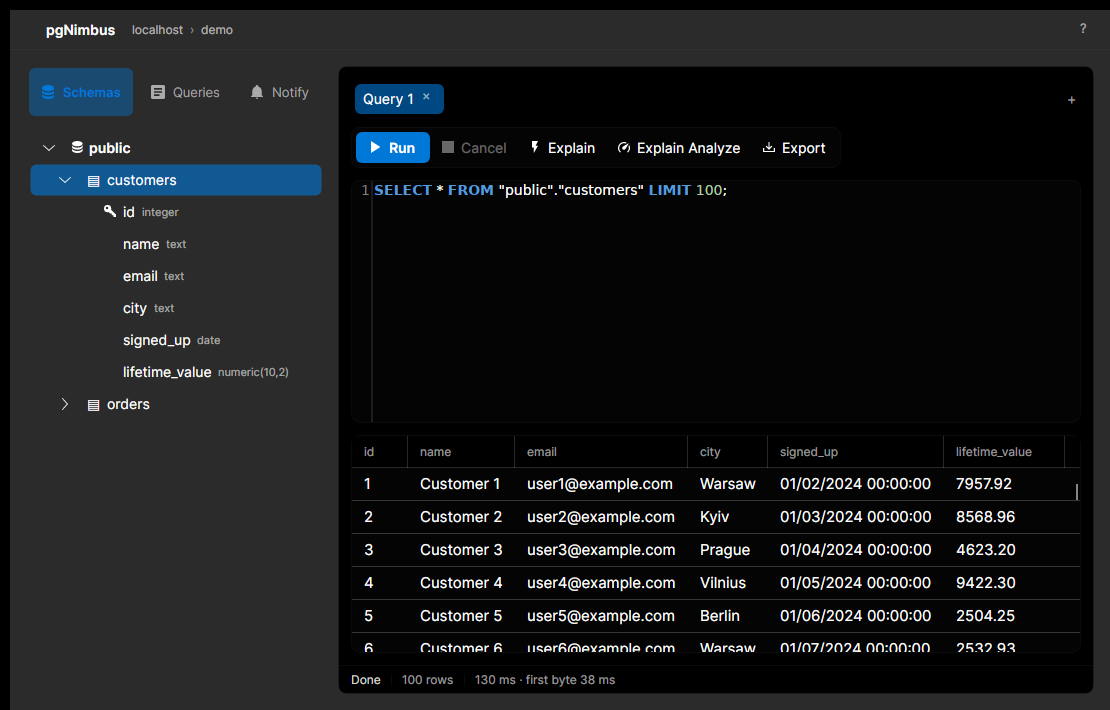
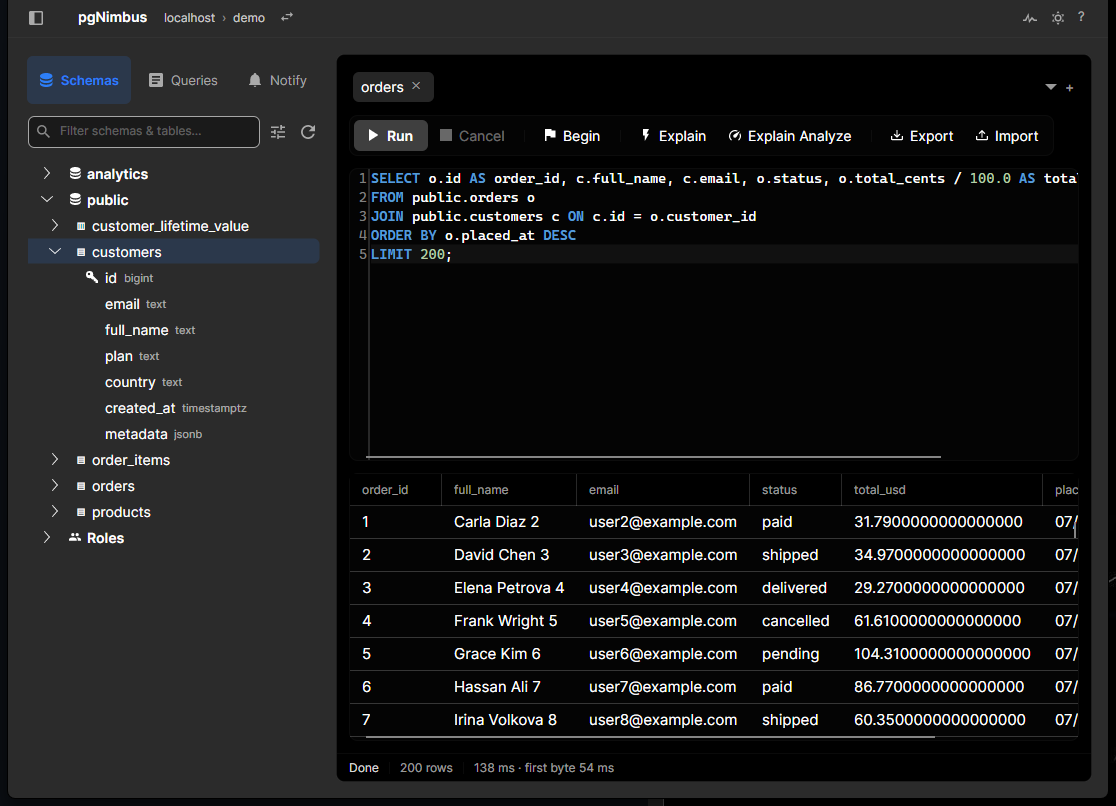
Refresh README screenshots with more of the sellable features (#73)
Re-captured the main window shots against a realistic seeded database
and added three new ones (EXPLAIN ANALYZE plan visualization, the
Ctrl+K command palette, and the server activity/pg_stat_activity
window) so the README screenshot gallery actually demonstrates the
PostgreSQL-first and keyboard-first differentiators, not just the
empty-state query editor.

Changed region(s): [[0.0, 0.0, 1.0, 1.0], [0.8883, 0.1549, 0.9495, 0.1859], [0.7964, 0.1549, 0.8577, 0.1859]]

diff --git a/README.md b/README.md
@@ -42,9 +42,17 @@ from the ground up.
 | --- | --- |
 | ![Main window, light theme](docs/screenshots/main-light.png) | ![Main window, dark theme](docs/screenshots/main-dark.png) |
 
-| Connection manager | Keyboard shortcuts (F1) |
+| EXPLAIN ANALYZE visualization | Command palette (Ctrl+K) |
 | --- | --- |
-| ![Connection dialog with saved profiles and paste-anything import](docs/screenshots/connection-dialog.png) | ![Keyboard shortcuts cheat sheet](docs/screenshots/shortcuts.png) |
+| ![Graphical EXPLAIN ANALYZE plan tree with per-node cost and timing](docs/screenshots/explain-visualization.png) | ![Command palette fuzzy-jumping to a table](docs/screenshots/command-palette.png) |
+
+| Server activity (pg_stat_activity) | Connection manager |
+| --- | --- |
+| ![Server activity window showing a live backend and its wait event](docs/screenshots/server-activity.png) | ![Connection dialog with saved profiles and paste-anything import](docs/screenshots/connection-dialog.png) |
+
+Keyboard shortcuts cheat sheet (<kbd>F1</kbd>):
+
+<img src="docs/screenshots/shortcuts.png" alt="Keyboard shortcuts cheat sheet" width="360">
 
 ## Download
 
